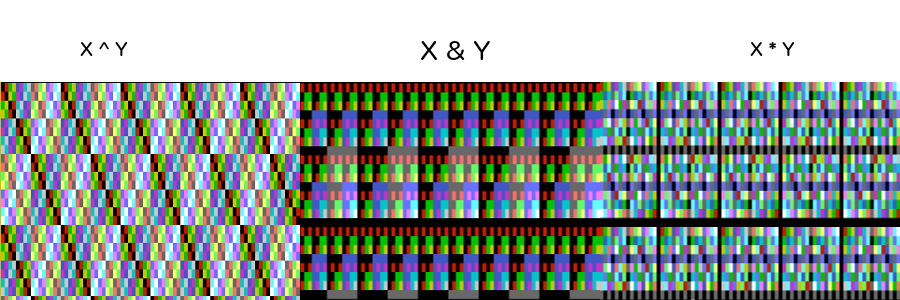
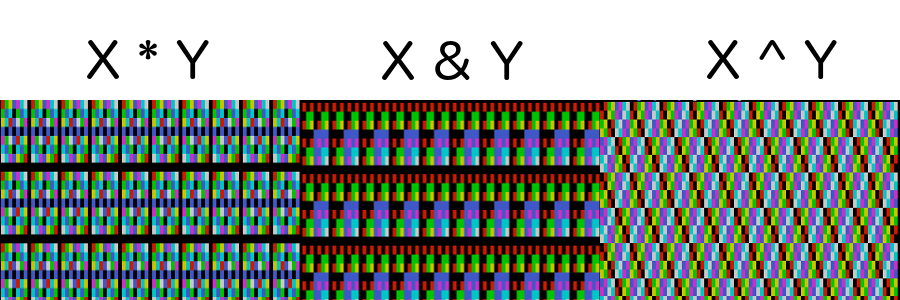
Simplifying examples and adding a few things

diff --git a/web/main.go b/web/main.go
@@ -1,7 +1,6 @@
 package main
 
 import (
-	"context"
 	"net/http"
 	"os"
 	"path/filepath"
@@ -16,12 +15,6 @@ type Todo struct {
 	ID   int    `json:"id"`
 	Task string `json:"title"`
 	Done bool   `json:"completed"`
-}
-
-// Struct for unmarshalling task json data
-type jsonData struct {
-	*Todo              // This means that the struct contains a Todo
-	OmitID interface{} `json:"id,omitempty"` // prevents 'id' from being set
 }
 
 var todos = []*Todo{
@@ -54,7 +47,6 @@ func main() {
 	todoRouter.Get("/", list)
 	todoRouter.Post("/", create)
 	todoRouter.Route("/:todoID", func(r chi.Router) {
-		r.Use(todoCtx)
 		r.Get("/", show)
 		r.Post("/", update)
 		r.Post("/delete", deleteTodo)
@@ -75,13 +67,13 @@ func main() {
 }
 
 func list(w http.ResponseWriter, r *http.Request) {
-	render.JSON(w, r, todos)
+	render.JSON(w, r, todos) // Render the list of tasks
 }
 
 func create(w http.ResponseWriter, r *http.Request) {
-	var data jsonData
-	if err := render.Bind(r.Body, &data); err != nil {
-		render.JSON(w, r, err.Error())
+	var todo *Todo                                     // Declare a new Todo
+	if err := render.Bind(r.Body, &todo); err != nil { // Get the data from the POST body
+		render.JSON(w, r, err.Error()) // Notify user of error if the JSON is invalid
 		return
 	}
 	// validate your data
@@ -90,32 +82,21 @@ func create(w http.ResponseWriter, r *http.Request) {
 	// render back the created Todo
 }
 
-// todo middleware
-// When the in a todo path, this will parse the todo id and render any errors.
-// This keeps your code DRY
-func todoCtx(next http.Handler) http.Handler {
-	return http.HandlerFunc(func(w http.ResponseWriter, r *http.Request) {
-		idStr := chi.URLParam(r, "todoID")
-		id, err := strconv.Atoi(idStr)
-		if err != nil {
-			http.Error(w, http.StatusText(500), 500)
-			return
-		}
-
-		todo := findTodo(id)
-		if todo == nil {
-			http.Error(w, http.StatusText(404), 404)
-			return
-		}
-
-		ctx := context.WithValue(r.Context(), "todo", todo)
-		next.ServeHTTP(w, r.WithContext(ctx))
-	})
-}
-
 func show(w http.ResponseWriter, r *http.Request) {
-	todo := r.Context().Value("todo").(*Todo)
-	render.JSON(w, r, todo)
+	idStr := chi.URLParam(r, "todoID") // get the todoID from the URL
+	id, err := strconv.Atoi(idStr)     // Convert it into an int from a string
+	if err != nil {                    // If we can't convert it then notify the user of an error
+		http.Error(w, http.StatusText(500), 500)
+		return
+	}
+
+	todo := findTodo(id)
+	if todo == nil { // If we cannot find this task then notify the user it doesnt exist
+		http.Error(w, http.StatusText(404), 404)
+		return
+	}
+
+	render.JSON(w, r, todo) // Render the task
 }
 
 func update(w http.ResponseWriter, r *http.Request) {

diff --git a/slices/display/display.go b/slices/display/display.go
@@ -9,8 +9,6 @@ import (
 var Colors = []color.Attribute{
 	color.BgBlack, color.BgRed, color.BgGreen, color.BgYellow,
 	color.BgBlue, color.BgMagenta, color.BgCyan, color.BgWhite,
-	color.BgHiBlack, color.BgHiRed, color.BgHiGreen, color.BgHiYellow,
-	color.BgHiBlue, color.BgHiMagenta, color.BgHiCyan, color.BgHiWhite,
 }
 
 func Show(pic [][]int) {

diff --git a/slices/main.go b/slices/main.go
@@ -4,6 +4,14 @@ import "github.com/gotoronto/workshop/slices/display"
 
 func Pic(dx, dy int) [][]int {
 	// implement
+	output := make([][]int, dy)
+	for y := range output {
+		output[y] = make([]int, dx)
+		for x := range output[y] {
+			output[y][x] = y
+		}
+	}
+	return output
 }
 
 func main() {

diff --git a/json/main.go b/json/main.go
@@ -1,10 +1,21 @@
 package main
 
 import (
-	"io/ioutil"
+	"encoding/json"
+	"fmt"
 )
 
+var jsonData = []byte(`[
+	{
+		"name": "Tim",
+		"age": 75
+	},
+	{
+		"name": "Jessica",
+		"age": 42
+	}
+]`)
+
 func main() {
-	jsonData, err := ioutil.ReadFile("./people.json")
 	// unmarshal here
 }
